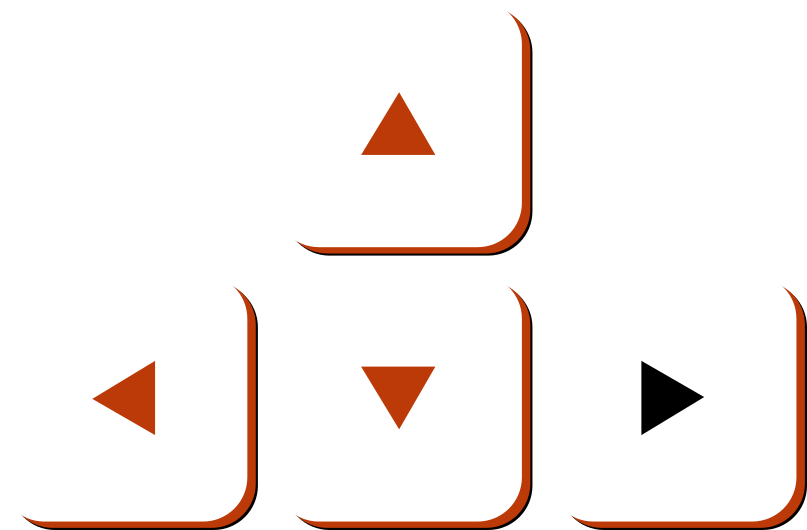
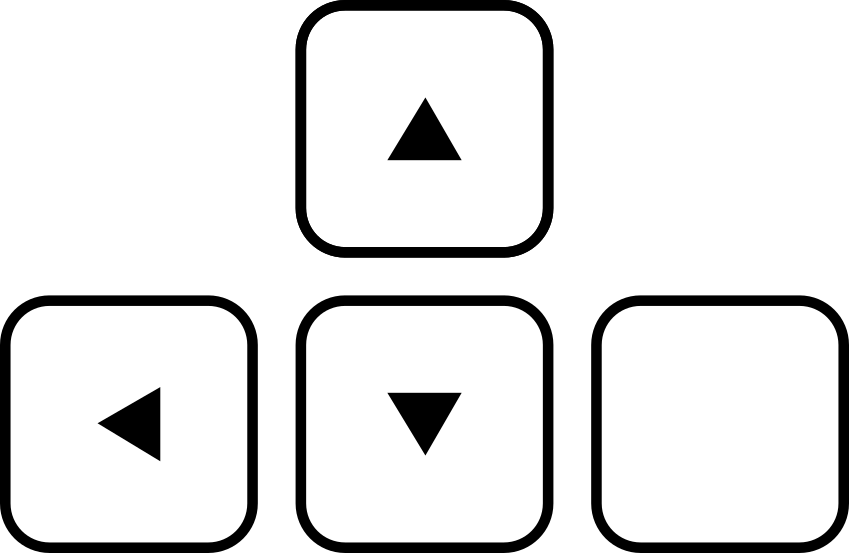
minor changes
like images and stuff

diff --git a/index.html b/index.html
@@ -20,6 +20,7 @@
 
 	<!-- Script-->
   <script src="bower_components/jquery/dist/jquery.min.js"></script>
+
 	<!-- This following line is optional. Only necessary if you use the option css3:false and you want to use other easing effects rather than "linear", "swing" or "easeInOutCubic". -->
 	<script src="bower_components/fullpage.js/vendors/jquery.easings.min.js"></script>
 	<!-- This following line is only necessary in the case of using the plugin option `scrollOverflow:true` -->
@@ -100,7 +101,17 @@
 												</div>
 
 									</div>
-					</div>
+
+									<div class="slide" id="last-intro">
+										<div id="map">
+											<img src="img/map.png" alt="Title" height="150" width="150"/>
+										</div>
+
+
+
+									</div>
+
+														</div>
 
 
       <div class="section" >
@@ -116,9 +127,7 @@
 					To imagine the world without the Internet means first of all to imagine the really dangerous possible scenarios that could cause it to collapse.
 				</p>
 
-				<div class="key">
-					<img src="img/keyboard3.png" alt="Title" height="150" width="150"/>
-				</div>
+
 				</div>
 
 			<div class="slide" id="scenarios">
@@ -176,9 +185,7 @@
 				A major solar event could theoretically melt down the whole Internet. What earthquakes, bombs, and terrorism cannot do might be accomplished in moments by a solar corona.
 			</p>
 
-			<div class="key">
-				<img src="img/keyboard2b.png" alt="Title" height="150" width="150"/>
-			</div>
+
 		</div>
 		</div>
 
@@ -189,9 +196,6 @@
 							<img src="img/aftermath.png" alt="Title" height="150" width="150"/>
 						</div>
 
-							<div class="key">
-								<img src="img/keyboard3.png" alt="Title"/>
-							</div>
 						</div>
 
 
@@ -263,6 +267,8 @@
 				The communication now has to rely on circles of telephones calls and exchange of physical memories, like twenty years ago.
 
 			</p>
+
+
 	</div>
 
 		</div>

diff --git a/main.css b/main.css
@@ -78,7 +78,7 @@ blockquote {
         margin-left: auto;
         margin-right: auto;
         bottom: 2vh;
-        left: 50%;
+        left: 25%;
         transform: translate(-50%,-50% );
         -ms-transform: translate(-50%,-50%); /* IE 9 */
         -webkit-transform: translate(-50%,-50%); /* Safari */
@@ -107,6 +107,7 @@ Title slide
         display: block;
         width: 25%;
       }
+
 
 /*
 Other slides
@@ -147,6 +148,22 @@ transform: translate(-50%, -50%);
 
 #aftermath img {
   width: 20%;
+}
+
+#last-intro .key{
+  left: 75%;
+
+}
+
+#last-intro img{
+
+  width: 35%;
+  height: auto;
+}
+
+
+#last-aftermath .key{
+  left: 90%;
 }
 
 #end a {
